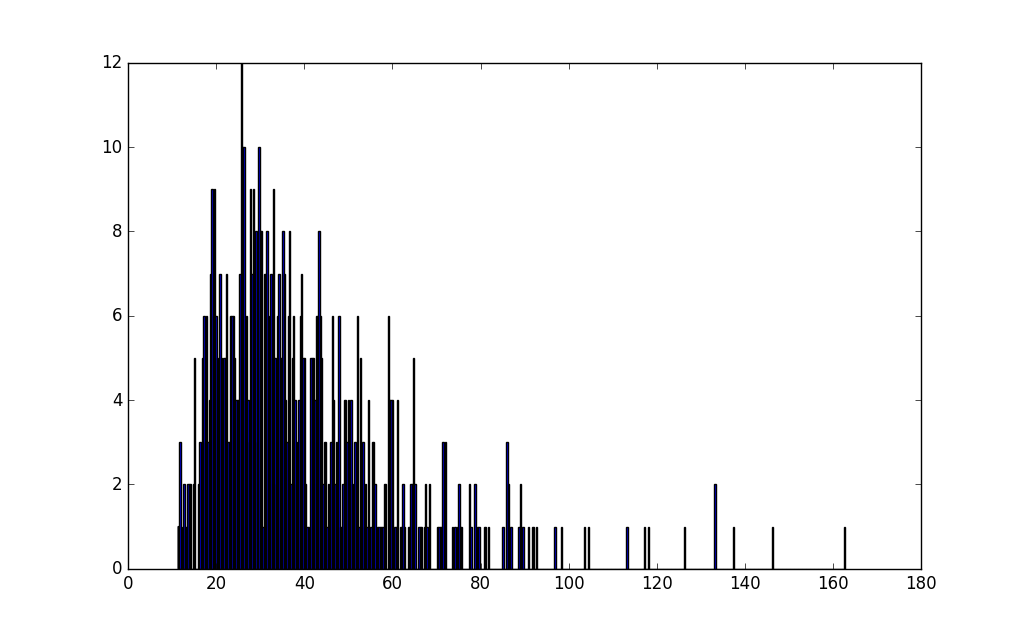
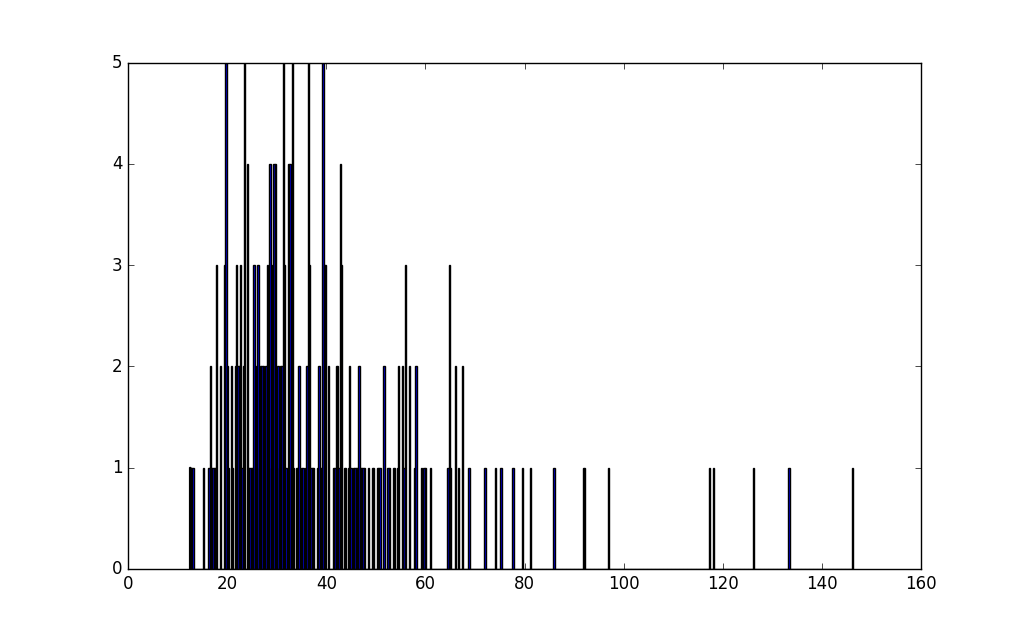
Added a bunch more cuts

diff --git a/Code/Lifetime.py b/Code/Lifetime.py
@@ -23,6 +23,12 @@ Momentum = np.array
 def magnitude(v: Position):
 	return np.sqrt(np.sum(v**2))
 
+def normed(v: Position):
+	return v/np.sqrt(np.sum(v**2))
+
+def dot(a: Position, b: Position):
+	return np.sum(a*b)
+
 def momentum_toSI(p: float):
 	return p * 1e6 * e / c # in SI
 
@@ -70,6 +76,11 @@ class CandidateEvent(object):
 	@lazy_property.LazyProperty
 	def pD0_t(self):
 		pcomps_d0 = self.kp+self.pd # in MeV
+		return magnitude(pcomps_d0[0:1])
+
+	@lazy_property.LazyProperty
+	def pDstar_t(self):
+		pcomps_d0 = self.kp+self.pd+self.ps # in MeV
 		return magnitude(pcomps_d0[0:1])
 	
 	@lazy_property.LazyProperty
@@ -133,6 +144,48 @@ class CandidateEvent(object):
 	@lazy_property.LazyProperty
 	def massDiff_d0dstar(self):
 		return mass_toMeV(self.reconstructedDstarMass - self.reconstructedD0Mass)
+
+	@lazy_property.LazyProperty
+	def d0IP_log(self):
+		x = (self.d0Decay - self.dstarDecay)*1e-3
+		p = normed(momentum_toSI(self.kp+self.pd))
+		return np.log10(magnitude(x - dot(x,p) * p)*1e6)
+	
+	@lazy_property.LazyProperty
+	def kIP_log(self):
+		x = (self.d0Decay - self.dstarDecay)*1e-3
+		p = normed(momentum_toSI(self.kp))
+		return np.log10(magnitude(x - dot(x,p) * p)*1e6)
+
+	@lazy_property.LazyProperty
+	def pIP_log(self):
+		x = (self.d0Decay - self.dstarDecay)*1e-3
+		p = normed(momentum_toSI(self.pd))
+		return np.log10(magnitude(x - dot(x,p) * p)*1e6)
+
+	@lazy_property.LazyProperty
+	def psIP_log(self):
+		x = (self.d0Decay - self.dstarDecay)*1e-3
+		p = normed(momentum_toSI(self.ps))
+		return np.log10(magnitude(x - dot(x,p) * p)*1e6)
+
+	@lazy_property.LazyProperty
+	def pk_t(self):
+		return magnitude(self.kp[0:1])
+
+	@lazy_property.LazyProperty
+	def pp_t(self):
+		return magnitude(self.pd[0:1])
+
+	@lazy_property.LazyProperty
+	def s_z(self):
+		return self.dstarDecay[2] - self.interaction[2]
+
+	@lazy_property.LazyProperty
+	def costheta(self):
+		p, r = momentum_toSI(self.pD0_t), (self.d0Decay-self.dstarDecay)*1e-3
+		return dot(p, r) / (magnitude(p) * magnitude(r))
+
 
 # reads a file and returns the D0 candidate events it lists
 # - expects the file to have specific col titles, returns None if there is an error
@@ -207,7 +260,7 @@ def plotData(data):
 
 
 	# decay time dist
-	times = [d.decayTime*1e12 for d in data]
+	times = [d.decayTime*1e12 for d in data if d.decayTime < 10e-12]
 	
 	newfig()
 	pl.hist(times, bins=100, range=(0, 50))
@@ -215,7 +268,7 @@ def plotData(data):
 	pl.close()
 
 	# decay time curve
-	hist, bin_edges = np.histogram(times, bins=100, range=(0.1, 10))
+	hist, bin_edges = np.histogram(times, bins=100, range=(0., 10.))
 	num_events = np.sum(hist)
 	print(num_events, ' events')
 	time = bin_edges[1:]
@@ -227,27 +280,29 @@ def plotData(data):
 	pl.close()
 
 	# decay time fitting
-	po, po_cov = spo.curve_fit(lambda t, A, tau, c: A * np.exp(-t/tau)+c, time, hist, [num_events, 1.5, 0]) #TODO: error analysis, np.repeat(0.03, l-transition_idx), absolute_sigma=True)
+	po, po_cov = spo.curve_fit(lambda t, A, tau: A * np.exp(-t/tau), time, hist, [num_events, 1.5]) #TODO: error analysis, np.repeat(0.03, l-transition_idx), absolute_sigma=True)
 
 	newfig()
-	pl.plot(time, hist, '-b')
-	pl.plot(time, np.vectorize(lambda t: po[0] * np.exp(-t/po[1]))(time), '-r')
+	pl.semilogy(time, hist, 'or')
+	pl.semilogy(time, np.vectorize(lambda t: po[0] * np.exp(-t/po[1]))(time), '-r')
+	pl.semilogy(time, np.vectorize(lambda t: po[0] * np.exp(-t/np.mean(times)))(time), '-g')
 	pl.xlabel(r'Decay time / ps')
 	savefig('decay-fitted')
 	pl.close()
 
 	partial_lifetime = po[1]
-	print('partial lifetime\t' + str(partial_lifetime) + ' ps')
+	print('partial lifetime\t' + str(partial_lifetime) + ' ps', 'OR MEAN PL =', str(np.mean(times)))
 	# print(hbar/(partial_lifetime*1e-12), hbar)
 	# print('partial width   \t' + str(c**2 * 1e-6 * hbar/(partial_lifetime*1e-12) / e) + ' MeV/c2')
 
 
 def plot_compare(accepted, rejected, prop, name, range=None):
 	diffs_a, diffs_r = [getattr(d, prop) for d in accepted], [getattr(d, prop) for d in rejected]
-	newfig()
-	f, axarr = pl.subplots(2, sharex=True)
-	axarr[0].hist(diffs_a, 100, facecolor='green', range=range)
-	axarr[1].hist(diffs_r, 100, facecolor='red', range=range)
+	fig, ax = newfig()
+	pl.yscale('log')
+	acc = pl.hist(diffs_a, 100, facecolor='g', normed=True, histtype='step', range=range, label='accepted')
+	rej = pl.hist(diffs_r, 100, facecolor='r', normed=True, histtype='step', range=range, label='rejected')
+	ax.legend(loc='upper right', shadow=True)
 	savefig(name+'-compare')
 	pl.close()
 
@@ -255,10 +310,10 @@ def plot_compare(accepted, rejected, prop, name, range=None):
 def background_fit(dm, bg_A, bg_p):
 	return bg_A * (dm-m_pi)**bg_p
 	
-def signal_fit(dm, sig_A, sig_centre, sig_w):
-	return sig_A * np.exp(-np.abs(dm-sig_centre)/sig_w)
 # def signal_fit(dm, sig_A, sig_centre, sig_w):
-# 	return sig_A * np.exp(-(dm-sig_centre)**2/sig_w)
+# 	return sig_A * np.exp(-np.abs(dm-sig_centre)/sig_w)
+def signal_fit(dm, sig_A, sig_centre, sig_w):
+	return sig_A * np.exp(-(dm-sig_centre)**2/(2*sig_w**2))
 	
 def combined_fit(dm, bg_A, bg_p, sig_A, sig_centre, sig_w):
 	return signal_fit(dm, sig_A, sig_centre, sig_w) + background_fit(dm, bg_A, bg_p)
@@ -267,21 +322,26 @@ def combined_fit(dm, bg_A, bg_p, sig_A, sig_centre, sig_w):
 # takes list of candidate events, cuts them by their mass diff
 def cutEventSet_massDiff(events, width):
 
-	initial = [20, 0.25, 220, 146, 2]
-# 	initial = [10, 0.25, 220, 146, 2]
+# 	initial = [20, 0.25, 220, 146, 2]
+	initial = [30, 0.25, 90, 146, .65]
 
-	diffs = [d.massDiff_d0dstar for d in events]
-	hist, bin_edges = np.histogram(diffs, bins=300)
+	diffs = [d.massDiff_d0dstar for d in events if d.massDiff_d0dstar < 170]
+	hist, bin_edges = np.histogram(diffs, bins=100)
 	masses = np.array([np.mean([d0, d1]) for d0, d1 in zip(bin_edges[:-1], bin_edges[1:])])
 	bin_width = bin_edges[1] - bin_edges[0]
+	errors = np.sqrt(hist)
 
-	po, po_cov = spo.curve_fit(combined_fit, masses, hist, initial)
+	po, po_cov = spo.curve_fit(combined_fit, masses, hist, initial, sigma=errors)
 
 	print('po-fit', po)
-	newfig()
-	pl.plot(masses, hist, '.g-')
-	pl.plot(masses, signal_fit(masses, *po[2:]), '-r')
-	pl.fill_between(masses, 0, background_fit(masses, *po[:2]), facecolor='blue', alpha=0.5)
+	fig, ax = newfig()
+	pl.plot(masses, hist, '.g')
+	pl.errorbar(masses, hist, yerr=errors, ecolor='g')
+	
+	masses_continuous = np.arange(m_pi, masses[-1], .1)
+	pl.plot(masses_continuous, signal_fit(masses_continuous, *po[2:]), '-r')
+	pl.fill_between(masses_continuous, 0, background_fit(masses_continuous, *po[:2]), facecolor='blue', alpha=0.5)
+	ax.set_xlim(139, 170)
 	pl.xlabel(r'$\Delta m$ / GeV/$c^2$')
 	savefig('cut-fitted')
 	pl.close()

diff --git a/Code/Cuts.py b/Code/Cuts.py
@@ -39,19 +39,41 @@ savefig('dm-decayTime-correlation')
 pl.close()
 
 
+filtered, rejected = cut(filtered, rejected, lambda d: 2500 <= d.pD0_t)
+filtered, rejected = cut(filtered, rejected, lambda d: 2500 <= d.pDstar_t)
+filtered, rejected = cut(filtered, rejected, lambda d: 300 <= d.pPslow_t)
+filtered, rejected = cut(filtered, rejected, lambda d: 750 <= d.pk_t)
+filtered, rejected = cut(filtered, rejected, lambda d: 750 <= d.pp_t)
+
+filtered, rejected = cut(filtered, rejected, lambda d: -2 <= d.d0IP_log <= 0.8)
+filtered, rejected = cut(filtered, rejected, lambda d: 0 <= d.kIP_log <= 3)
+filtered, rejected = cut(filtered, rejected, lambda d: 0 <= d.pIP_log <= 3)
+filtered, rejected = cut(filtered, rejected, lambda d: 0 <= d.psIP_log <= 2)
+
+filtered, rejected = cut(filtered, rejected, lambda d:  5 <= d.s_z <= 120)
+filtered, rejected = cut(filtered, rejected, lambda d:  0.95 >= d.costheta)
+
+
 plot_compare(filtered, rejected, 'decayTime', 'decayTime', (0,10e-12))
 plot_compare(filtered, rejected, 'pD0_t', 'pd0-t')
 plot_compare(filtered, rejected, 'pPslow', 'pslow')
 plot_compare(filtered, rejected, 'pPslow_t', 'pslow-t')
+plot_compare(filtered, rejected, 'pDstar_t', 'dstar-t')
+plot_compare(filtered, rejected, 'pk_t', 'pk-t')
+plot_compare(filtered, rejected, 'pp_t', 'pp-t')
+plot_compare(filtered, rejected, 'd0IP_log', 'd0-impact-parameter')
+plot_compare(filtered, rejected, 'kIP_log', 'k-impact-parameter')
+plot_compare(filtered, rejected, 'pIP_log', 'p-impact-parameter')
+plot_compare(filtered, rejected, 'psIP_log', 'ps-impact-parameter')
+plot_compare(filtered, rejected, 's_z', 's_z', (-200, 200))
+plot_compare(filtered, rejected, 'costheta', 'costheta', (.6,1))
 
-filtered, rejected = cut(filtered, rejected, lambda d: 2500 <= d.pD0_t <= 20000)
-filtered, rejected = cut(filtered, rejected, lambda d: 300 <= d.pPslow_t)
-filtered, rejected = cut(filtered, rejected, lambda d: 2000 <= d.pPslow)
 
 # remove width
 d0_c, dstar_c = 1865., 2010.
-width = 20.
+width = 50.
 filtered = [event for event in filtered if (d0_c-width) <= mass_toMeV(event.reconstructedD0Mass) <= (d0_c+width) and (dstar_c-width) <= mass_toMeV(event.reconstructedDstarMass) <= (dstar_c+width)]
+
 
 
 # filtered = [d for d in filtered if d.pPslow >= 1.3e3]

diff --git a/Code/CutModel.py b/Code/CutModel.py
@@ -58,8 +58,8 @@ def expected_background_number(dm):
 
 sig_centre, sig_w = po_cut_data[3], po_cut_data[4]
 # PARAMS
-width = .75
-offset = +.8*width
+width = .8
+offset = +.5*width
 num_bins = 10
 range_low, range_up = offset+sig_centre - sig_w*width, offset+sig_centre + sig_w*width
 
